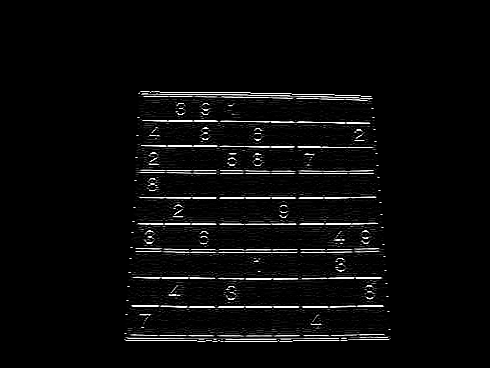
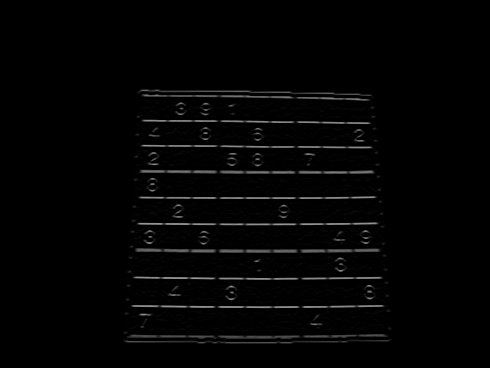
Completed Image preproccessing

Changed region(s): [[0.2449, 0.2391, 0.7959, 0.9565], [0.4592, 0.538, 0.4898, 0.5679]]

diff --git a/src/com/williampan/sudokuocr/imageprocessing/ImageProcessor.java b/src/com/williampan/sudokuocr/imageprocessing/ImageProcessor.java
@@ -41,9 +41,10 @@ public class ImageProcessor {
 		Mat andImage = Mat.zeros(maskedImage.size(), CvType.CV_8UC3);
 		Core.bitwise_and(vertImage, horImage, andImage);
 		Highgui.imwrite("afterBitAnd.png", andImage);
-		findCentroids(andImage, maskedImage);
+		ArrayList<Point> centroids = findCentroids(andImage, maskedImage);
+		transformImage(centroids, maskedImage);
 	}
-	
+
 	/**
 	 * Preprocess the image using blur and thresholding
 	 * @param image Input/Output image
@@ -154,10 +155,10 @@ public class ImageProcessor {
 		Mat processedImage = new Mat(image.size(), Core.DEPTH_MASK_ALL);
 		Imgproc.cvtColor(image, processedImage, Imgproc.COLOR_BGR2GRAY);
 		// Guassian blur
-		//Imgproc.GaussianBlur(processedImage, processedImage, new Size(5,5), 0);	
+		Imgproc.GaussianBlur(processedImage, processedImage, new Size(5,5), 0);	
 		
 		// Kernel to morph line thickness
-		Mat kernel = Imgproc.getStructuringElement(Imgproc.MORPH_RECT, new Size(2,10));
+		Mat kernel = Imgproc.getStructuringElement(Imgproc.MORPH_RECT, new Size(1,10));
 		// Process image so that vertical lines can be found
 		Highgui.imwrite("beforesobel.png", processedImage);
 		Imgproc.Sobel(processedImage, processedImage, CvType.CV_16S, 1, 0);
@@ -198,7 +199,7 @@ public class ImageProcessor {
 		Mat processedImage = new Mat(image.size(), Core.DEPTH_MASK_ALL);
 		Imgproc.cvtColor(image, processedImage, Imgproc.COLOR_BGR2GRAY);
 		// Guassian blur
-		//Imgproc.GaussianBlur(processedImage, processedImage, new Size(5,5), 0);	
+		Imgproc.GaussianBlur(processedImage, processedImage, new Size(5,5), 0);	
 		
 		// Kernel to morph line thickness
 		Mat kernel = Imgproc.getStructuringElement(Imgproc.MORPH_RECT, new Size(10,2));
@@ -241,6 +242,9 @@ public class ImageProcessor {
 	 * @return ArrayList of centroids
 	 */
 	private ArrayList<Point> findCentroids(Mat image, Mat originalImage){
+		// Output image
+		Mat outImage = Mat.zeros(originalImage.size(), CvType.CV_32F);
+		Imgproc.cvtColor(originalImage, outImage, Imgproc.COLOR_BGR2GRAY);
 		// Image preproccesing
 		Mat processedImage = new Mat(image.size(), Core.DEPTH_MASK_ALL);
 		Imgproc.cvtColor(image, processedImage, Imgproc.COLOR_BGR2GRAY);
@@ -258,7 +262,7 @@ public class ImageProcessor {
 			int x = (int)(moment.get_m10()/moment.get_m00());
 			int y = (int)(moment.get_m01()/moment.get_m00());
 			Point circleCentre = new Point(x,y);
-			Core.circle(originalImage, circleCentre, 4, new Scalar(0,255,0));
+			Core.circle(outImage, circleCentre, 4, new Scalar(0,255,0));
 			centroids.add(circleCentre);
 		}
 		
@@ -288,13 +292,53 @@ public class ImageProcessor {
 		// Display Centroids on image
 		int count = 0;	
 		for (Point point : centroids){
-			System.out.println(count + ": " + point.x + "," + point.y);
-			Core.putText(originalImage, String.valueOf(count), point, Core.FONT_HERSHEY_PLAIN, 1.0, new Scalar(0,0,255));
+			Core.putText(outImage, String.valueOf(count), point, Core.FONT_HERSHEY_PLAIN, 1.0, new Scalar(0,0,255));
 			count += 1;
 		}
-		Highgui.imwrite("afterCentroids.png", originalImage);
+		Highgui.imwrite("afterCentroids.png", outImage);
 		
 		return centroids;
+	}
+	
+	/**
+	 * Transform image using centroids into a fixed 450x450 square
+	 * Algorithm derived from Abid Rahman K & nikie
+	 * http://stackoverflow.com/questions/10196198/how-to-remove-convexity-defects-in-a-sudoku-square
+	 * @param centroids Array of centroids
+	 * @param image Original sudoku image
+	 */
+	private void transformImage(ArrayList<Point> centroids, Mat image){
+		Mat outputImage = Mat.zeros(new Size(450,450), CvType.CV_32F);
+		// Modify each centroid
+		for (int row=0; row < 10; row ++){
+			for (int col=0; col < 10; col++){
+				if (col != 9 && row != 9){
+					int count = 0;
+					Mat transMat = new Mat(4, 2, CvType.CV_32F);
+					Mat outMat = new Mat(4, 2, CvType.CV_32F);
+					int[][] outArray = new int[][]{{col*50,row*50},{(col+1)*50-1,row*50},{col*50,(row+1)*50-1},{(col+1)*50-1,(row+1)*50-1}};
+					for (int ri = row; ri < row+2; ri++){
+						for (int ci = col; ci < col+2; ci++){
+							transMat.put(count, 0, centroids.get(ri*10+ci).x);
+							transMat.put(count, 1, centroids.get(ri*10+ci).y);
+							outMat.put(count, 0, outArray[count][0]);
+							outMat.put(count, 1, outArray[count][1]);
+							count += 1;
+						}
+					}
+					Mat transform = Imgproc.getPerspectiveTransform(transMat, outMat);
+					Mat tempImage = Mat.zeros(new Size(450,450), CvType.CV_32F);
+					Imgproc.warpPerspective(image, tempImage, transform, new Size(450,450));
+					
+					for (int x=row*50; x <(row+1)*50-1; x++){
+						for (int y=col*50; y <(col+1)*50-1; y++){
+							outputImage.put(x, y, tempImage.get(x,y));
+						}
+					}
+				}
+			}
+		}
+		Highgui.imwrite("morphedImage.png", outputImage);
 	}
 	
 }
